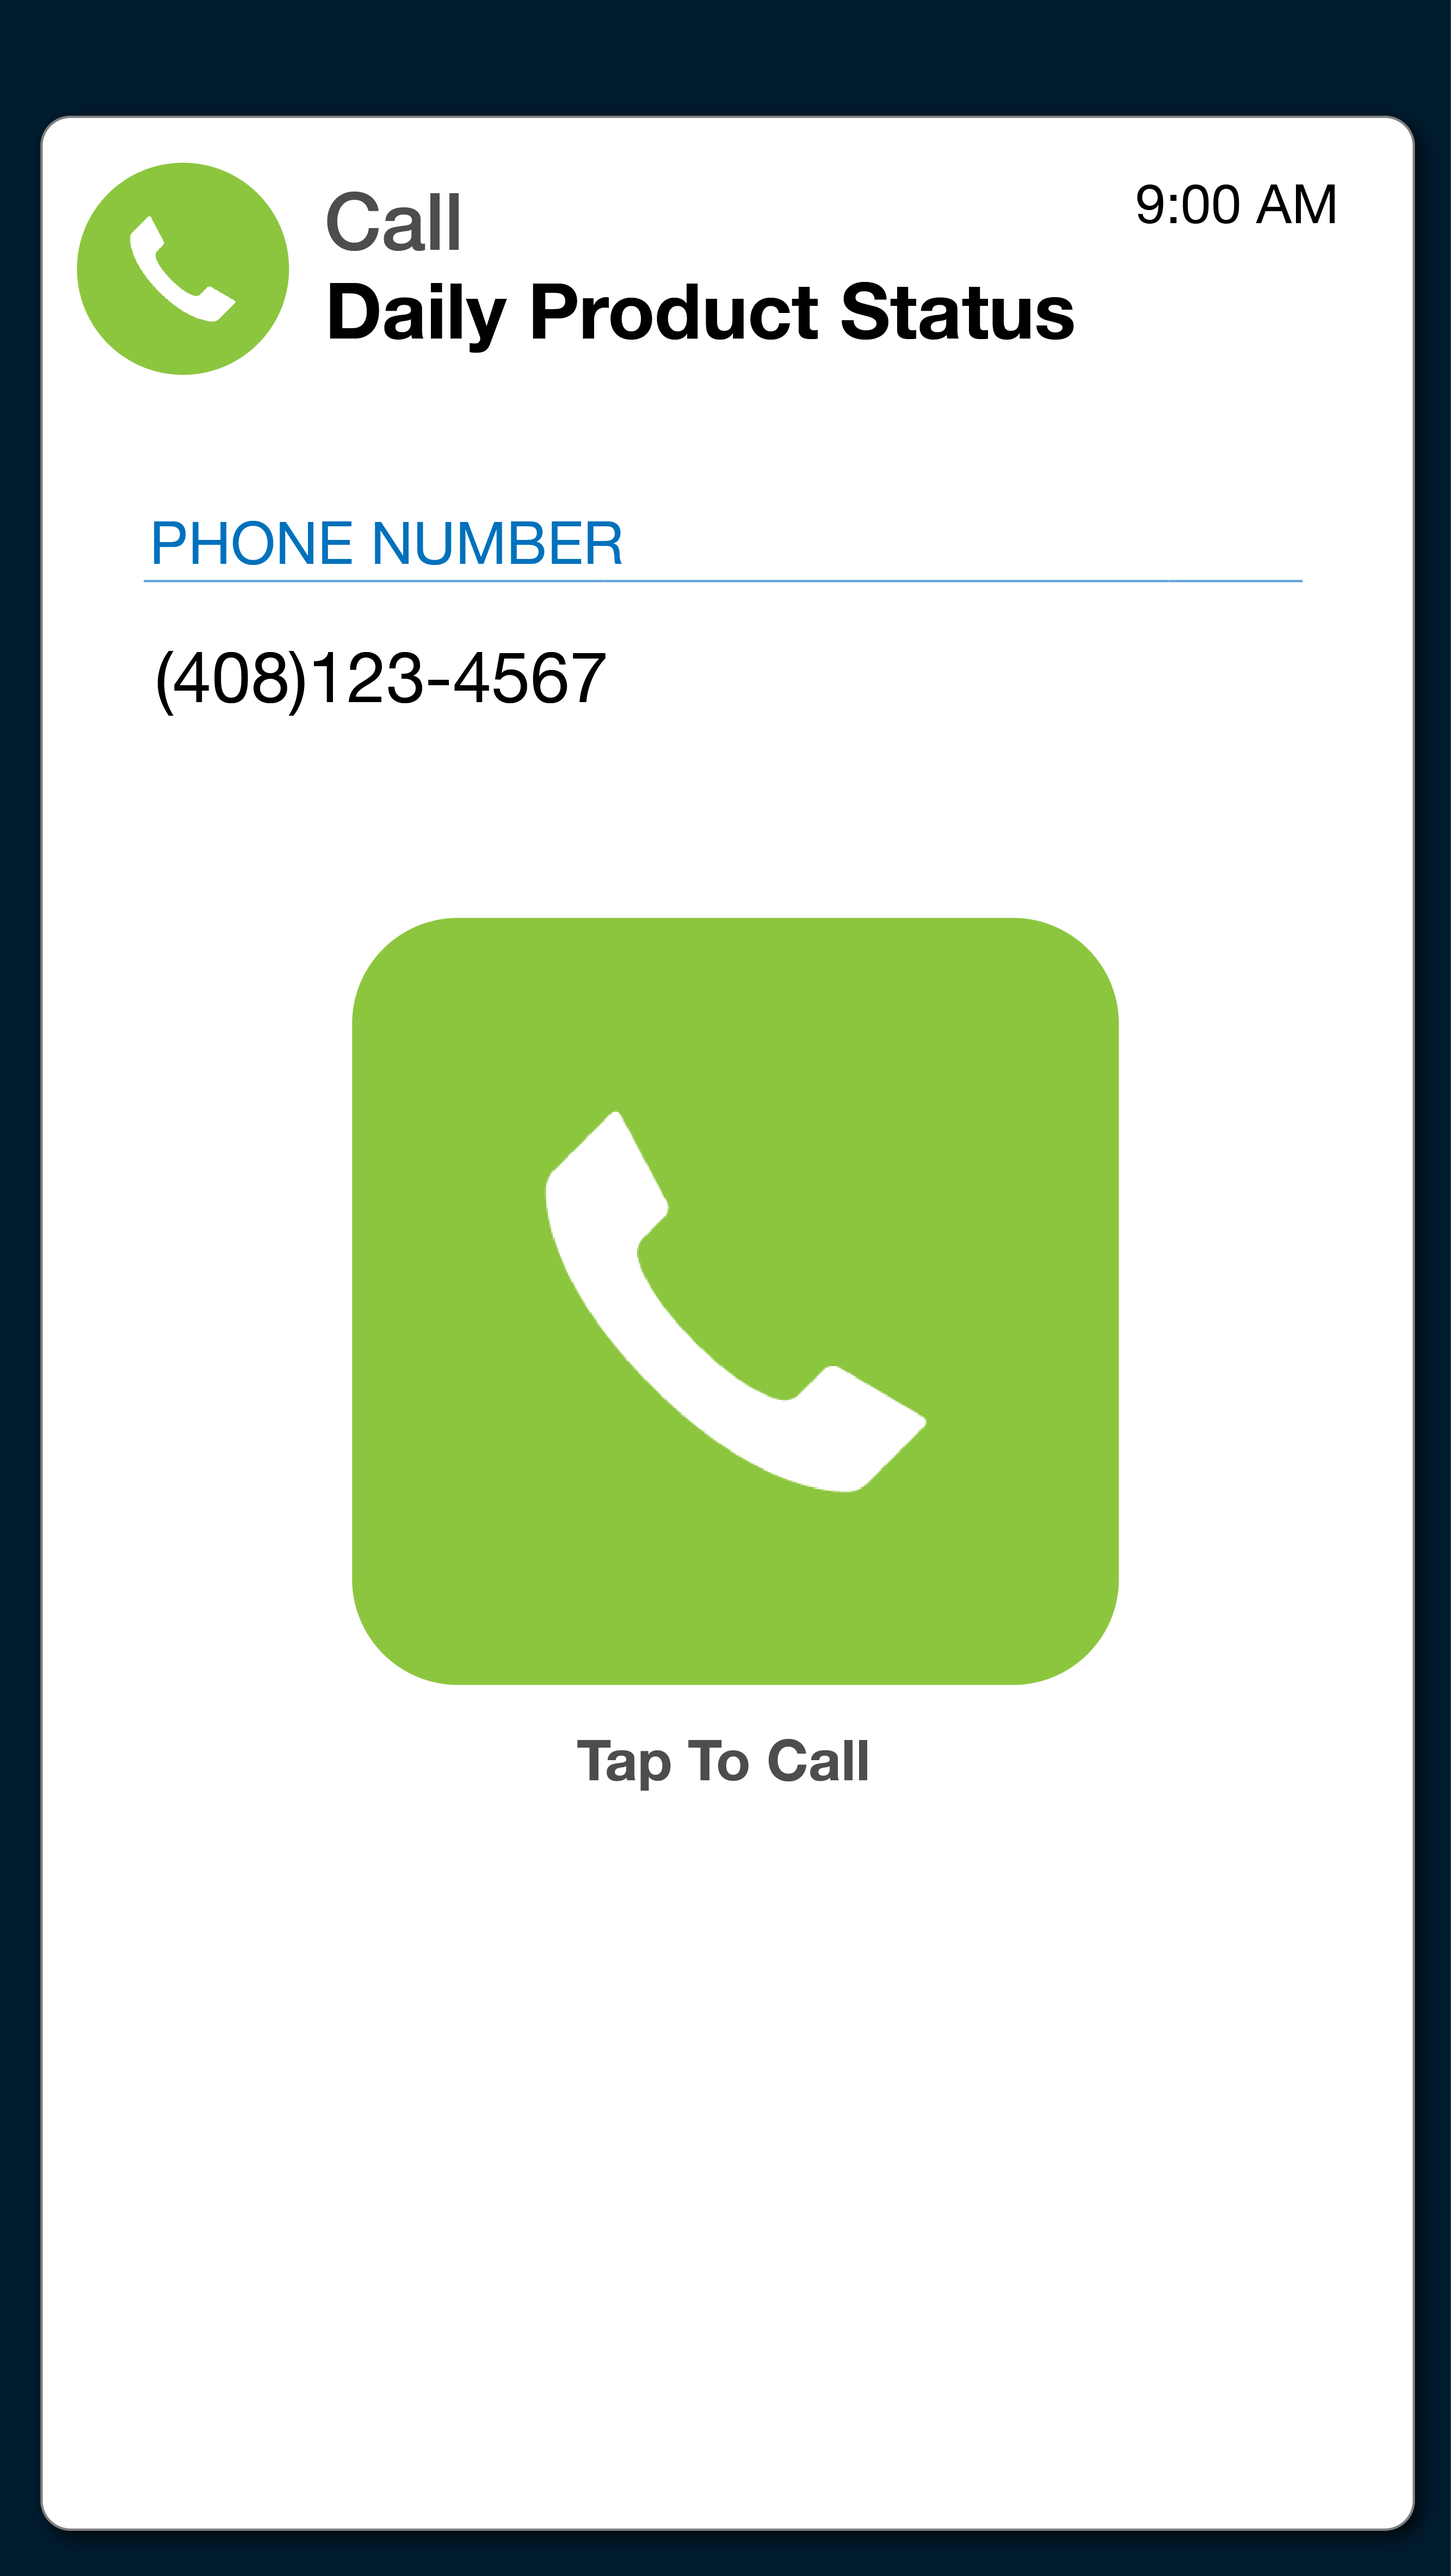
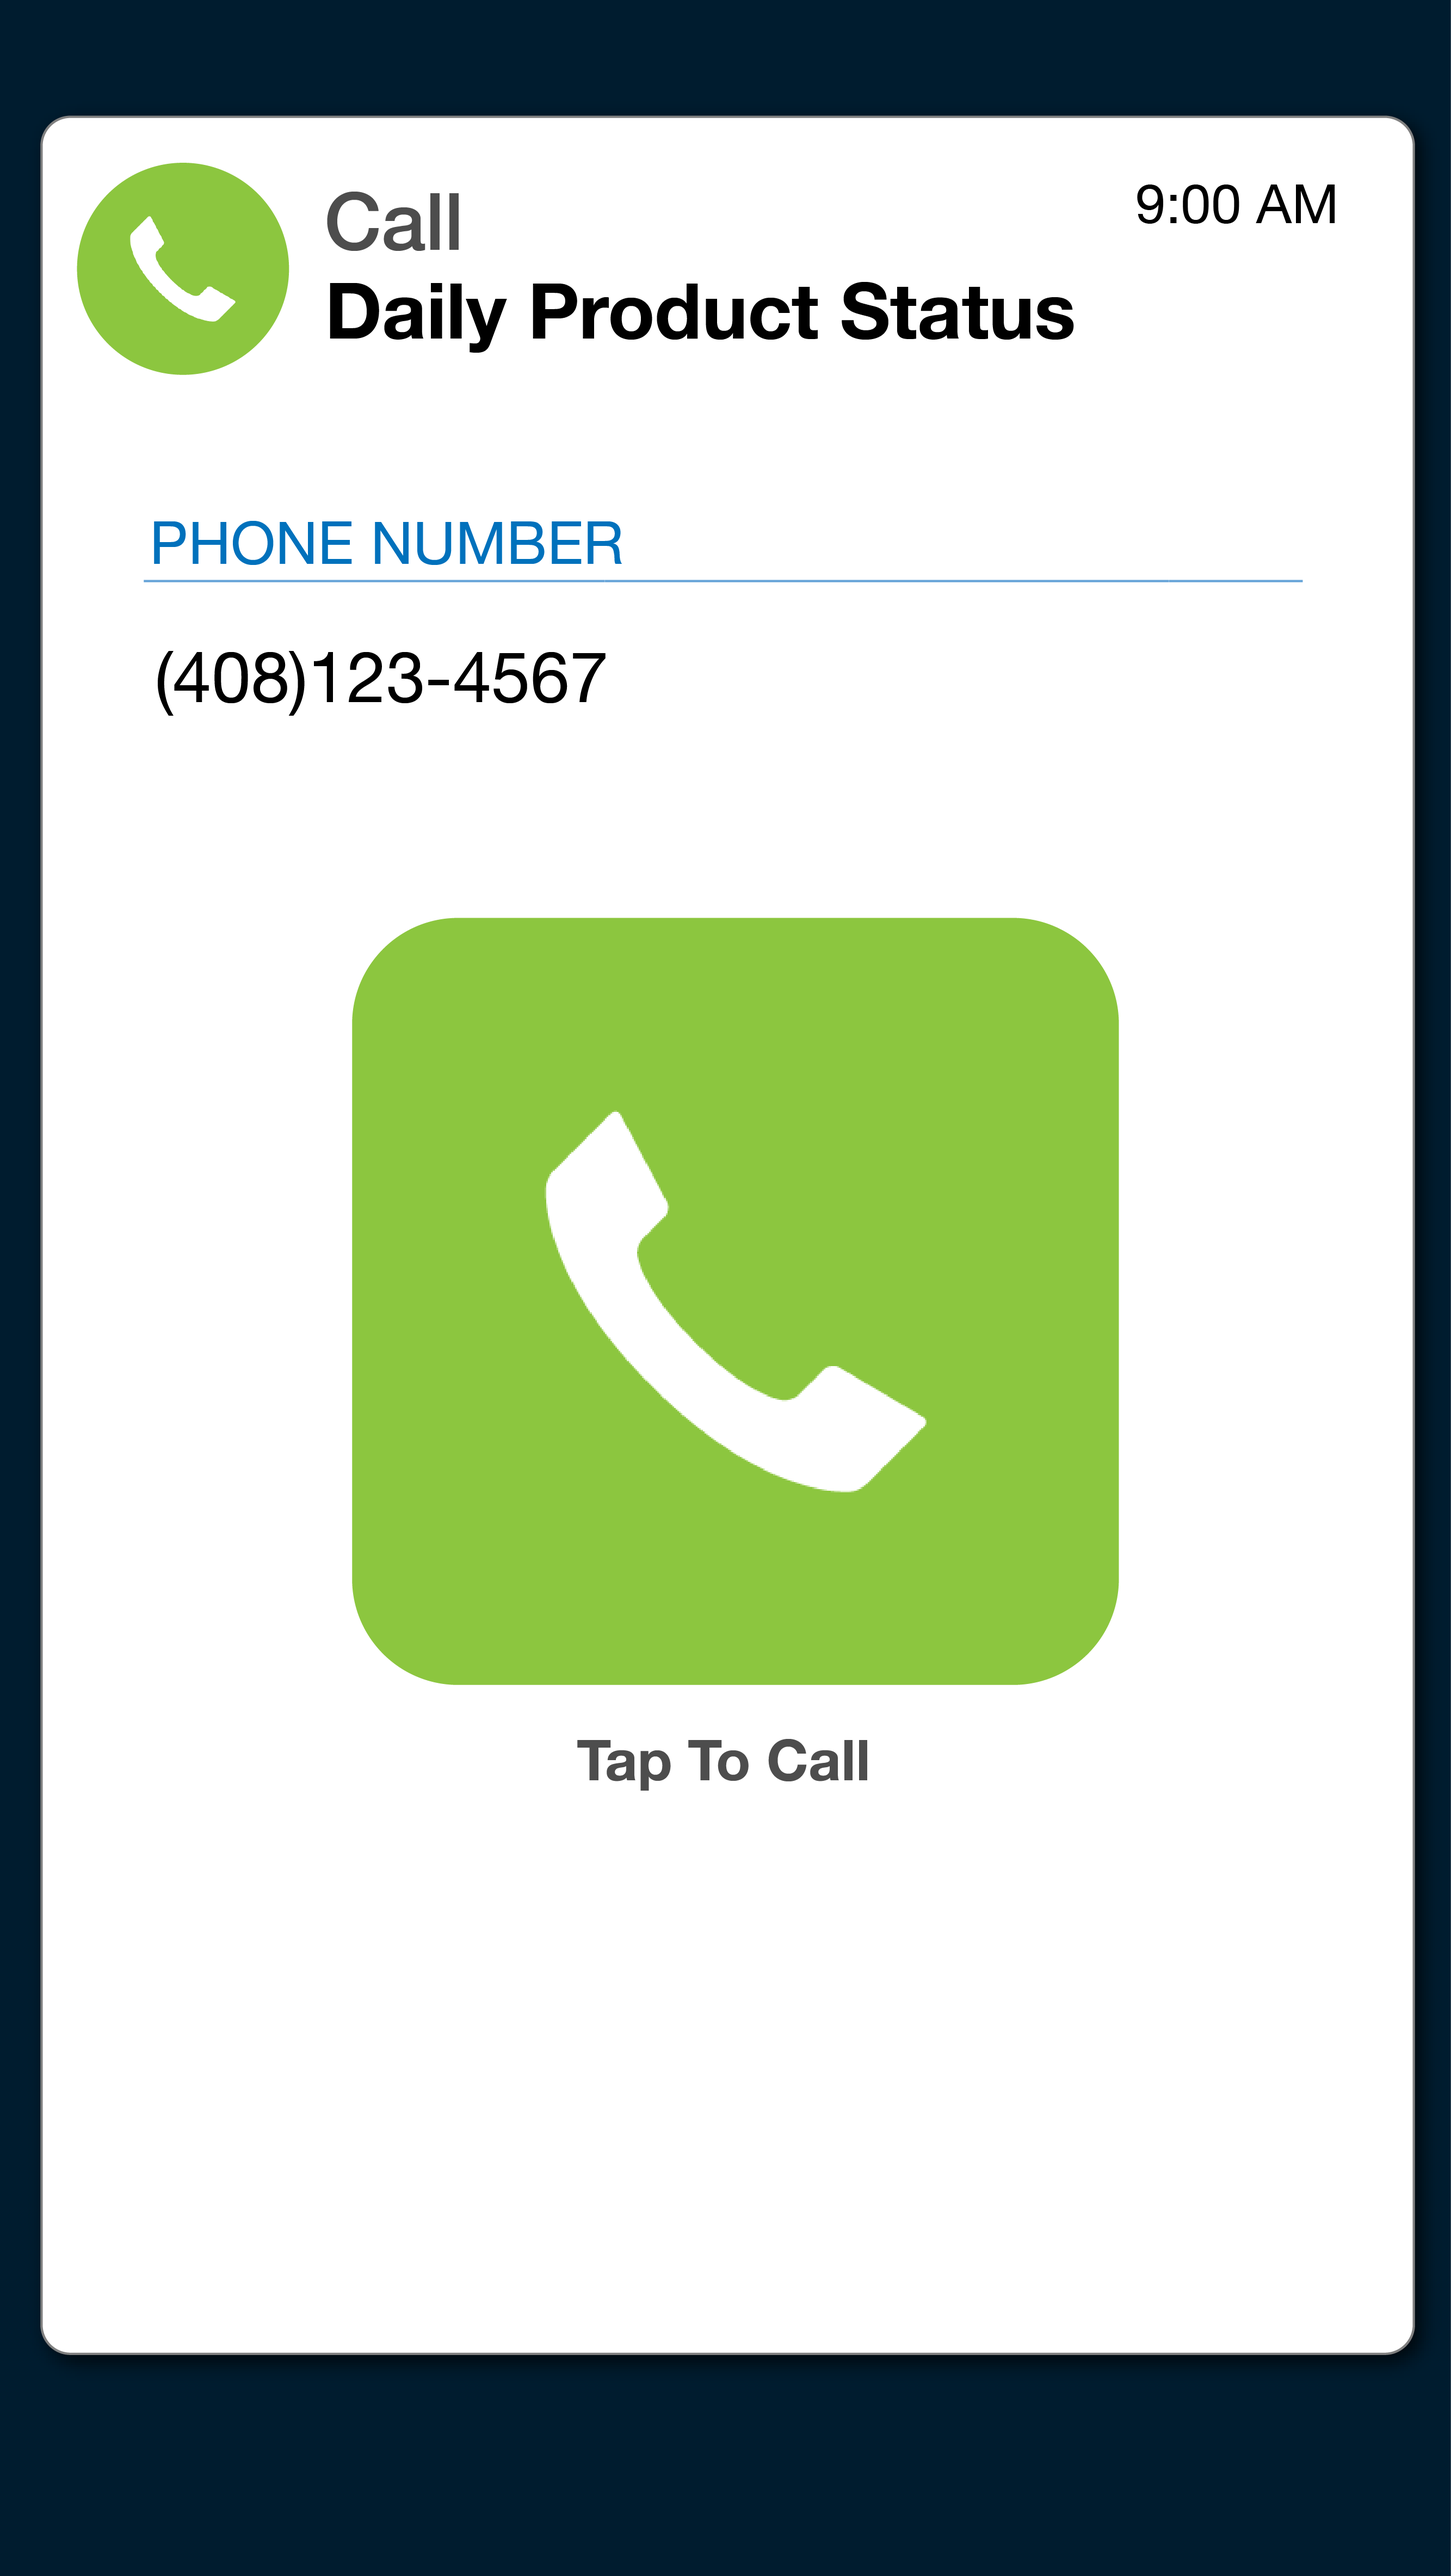
ui fixes with color in pageviewcontroller

Changed region(s): [[0.0, 0.9007, 0.9959, 0.9939]]

diff --git a/WatchPrototype/PageViewController.swift b/WatchPrototype/PageViewController.swift
@@ -37,7 +37,7 @@ class PageViewController: UIViewController, UIPageViewControllerDataSource, UIPa
         let pageContentViewController = self.viewControllerAtIndex(0)
         self.pageViewController.setViewControllers([pageContentViewController!], direction: UIPageViewControllerNavigationDirection.Forward, animated: true, completion: nil)
         
-        self.pageViewController.view.frame = CGRectMake(0, 0, self.view.frame.width, self.view.frame.height+40)
+        self.pageViewController.view.frame = CGRectMake(0, 0, self.view.frame.width, self.view.frame.height)
         self.addChildViewController(pageViewController)
         self.view.addSubview(pageViewController.view)
         self.pageViewController.didMoveToParentViewController(self)
@@ -49,6 +49,13 @@ class PageViewController: UIViewController, UIPageViewControllerDataSource, UIPa
 
         // Do any additional setup after loading the view.
         self.navigationController?.hidesBarsOnTap = true
+        //self.view.backgroundColor = UIColor.clearColor()
+        
+        var pageControl: UIPageControl = UIPageControl.appearance()
+        pageControl.pageIndicatorTintColor = UIColor.lightGrayColor()
+        pageControl.currentPageIndicatorTintColor = UIColor.whiteColor()
+        var blueBackground: UIColor = UIColor(red: (0/255.0), green: (28/255.0), blue: (47/255.0), alpha: 1.0)
+        pageControl.backgroundColor = blueBackground
         reset()
     }
 
